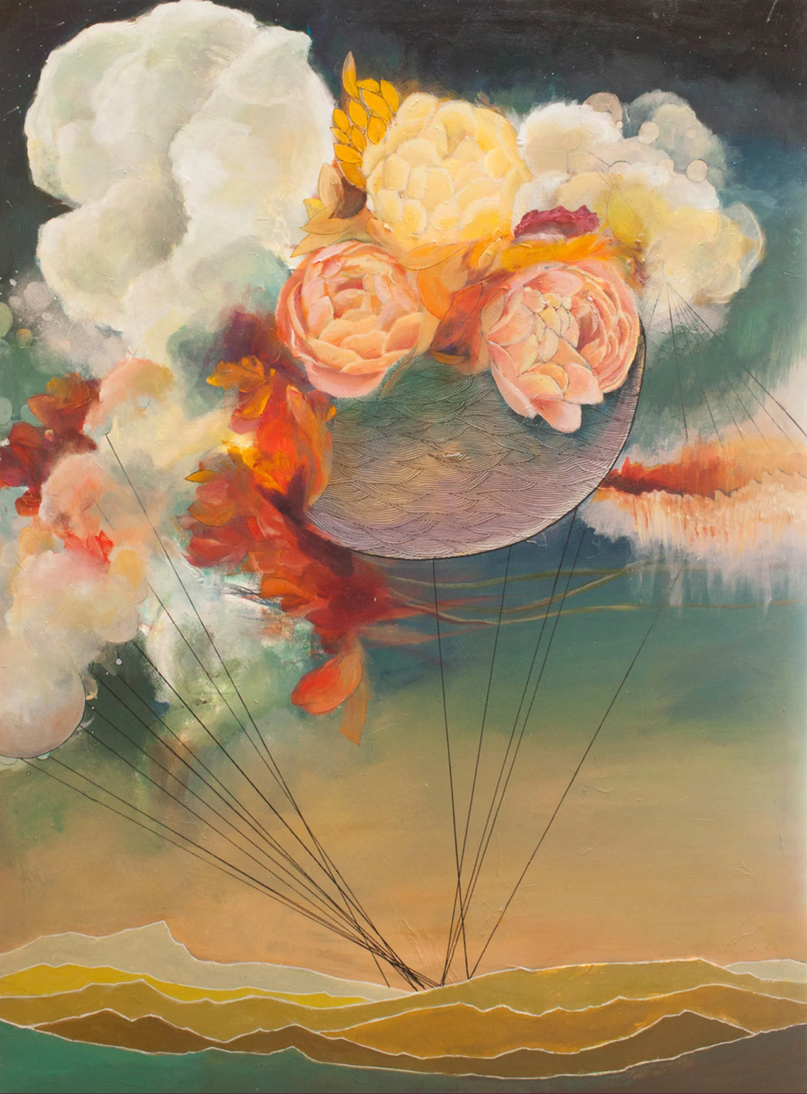
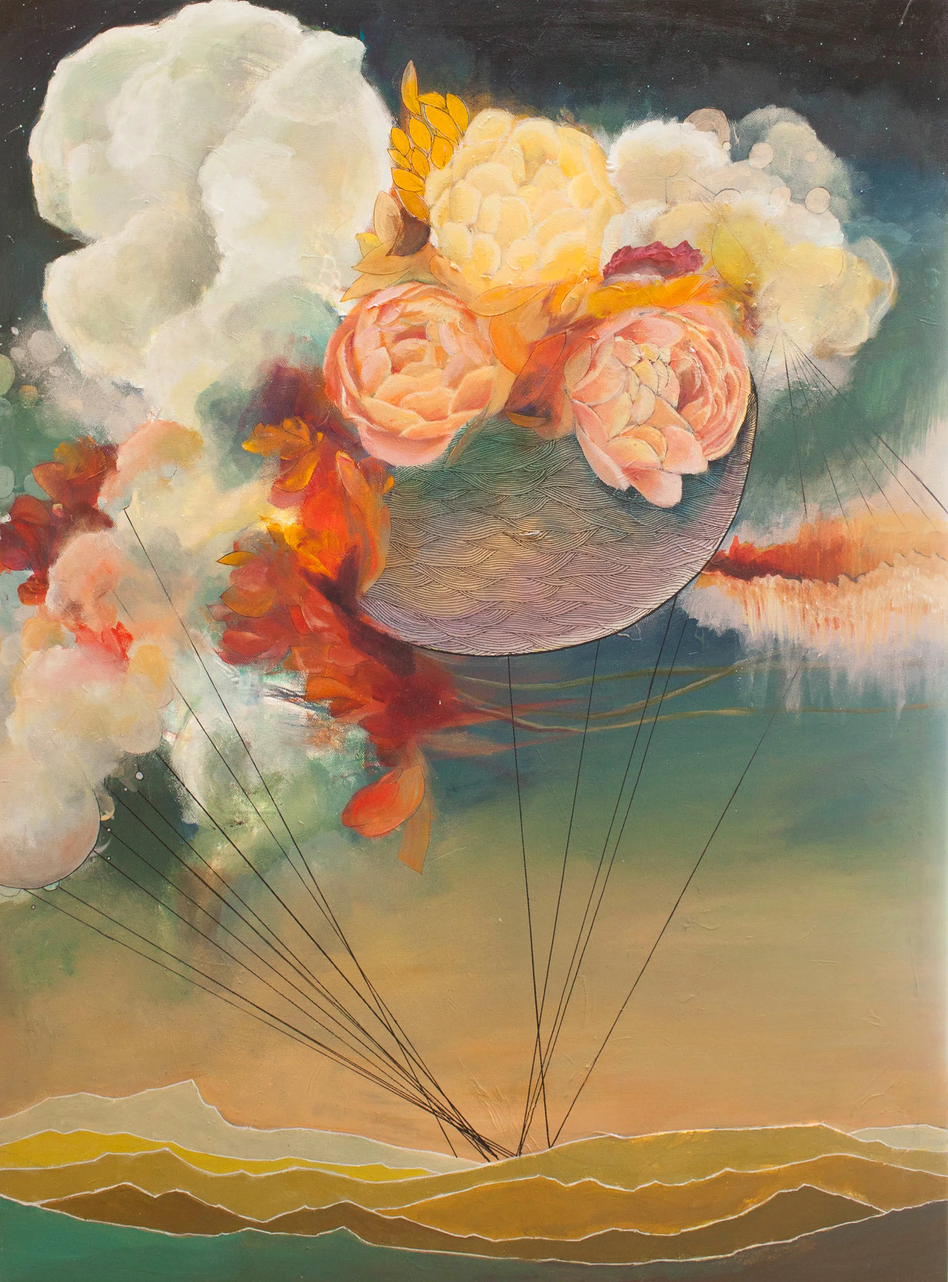
adjust site background

diff --git a/assets/css/main.css b/assets/css/main.css
@@ -83,7 +83,7 @@ body {
 
   background:
     var(--bg-gradient),
-    url('/assets/nectar_bg_85.webp') center / cover no-repeat fixed;
+    url('/assets/nectar_bg_50.webp') center / cover no-repeat fixed;
   color: var(--text);
   font-family: var(--font-body);
   min-height: 100vh;
